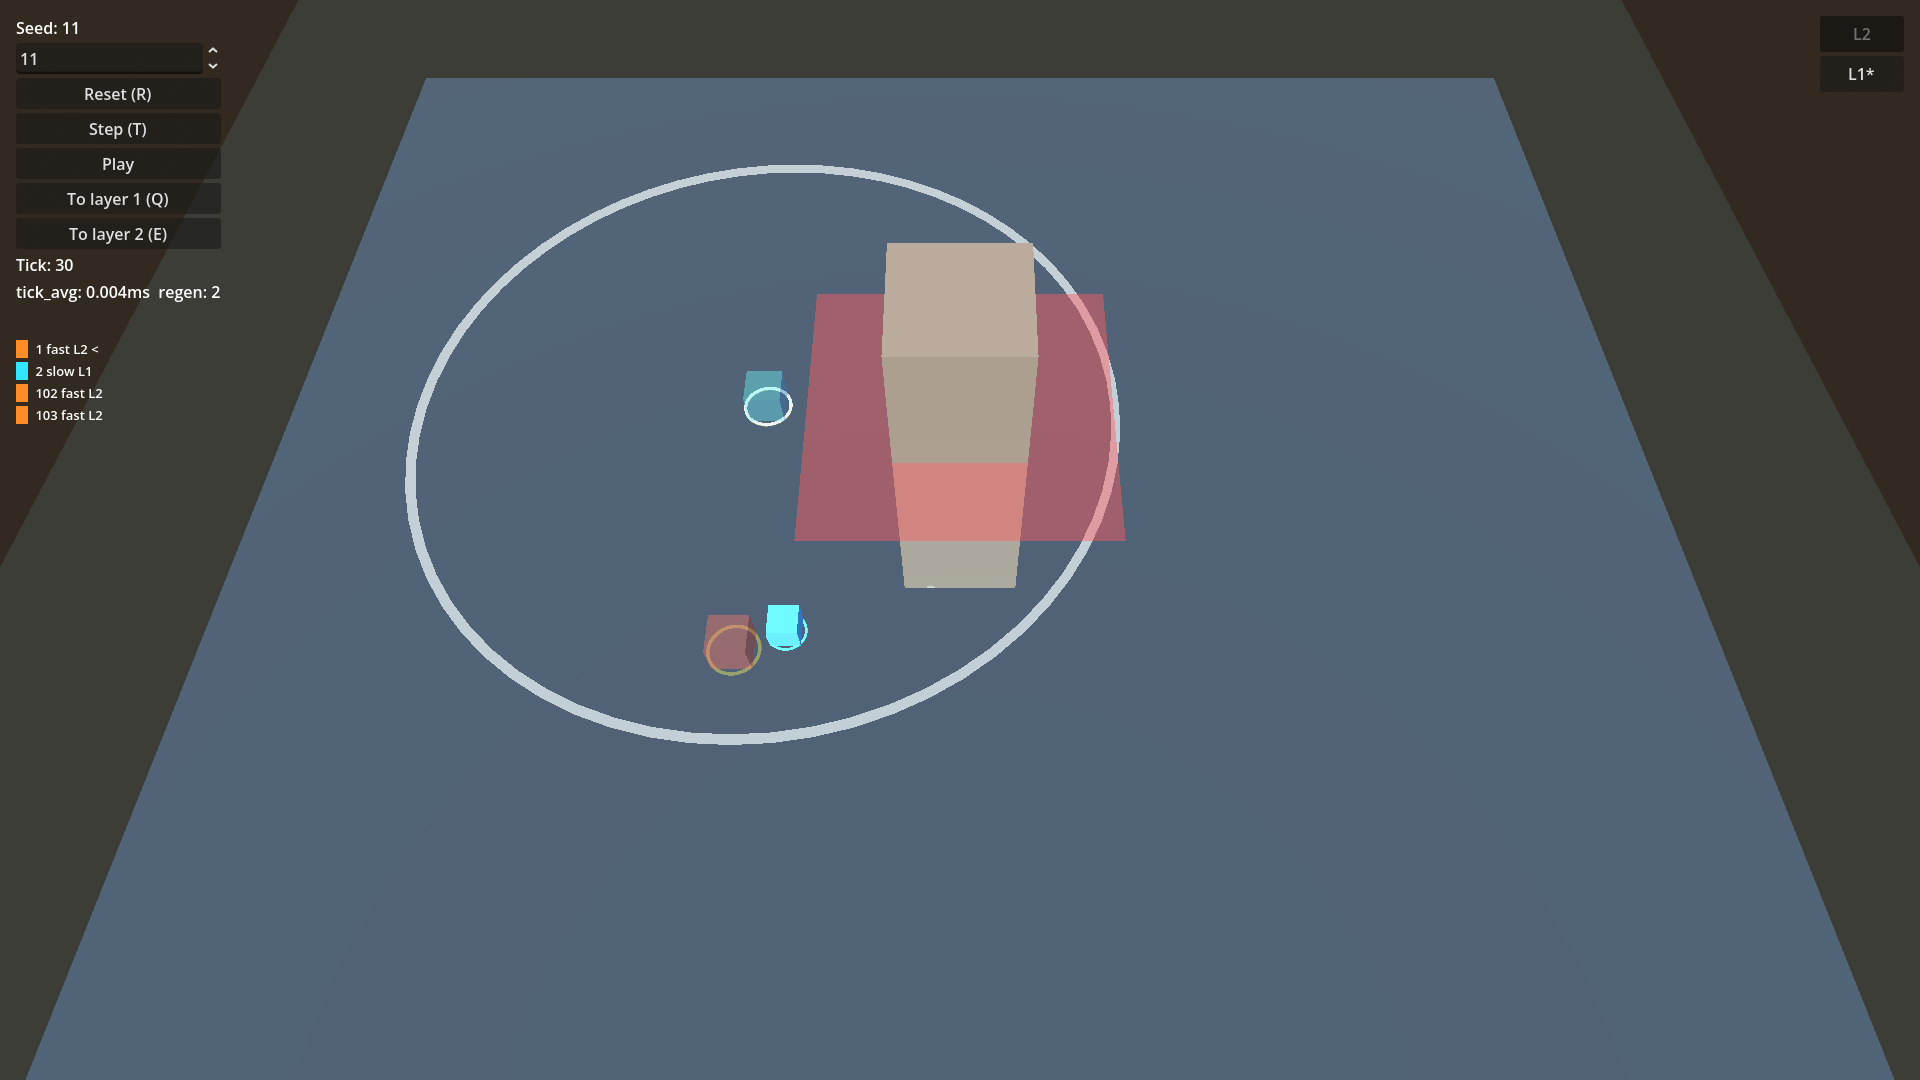
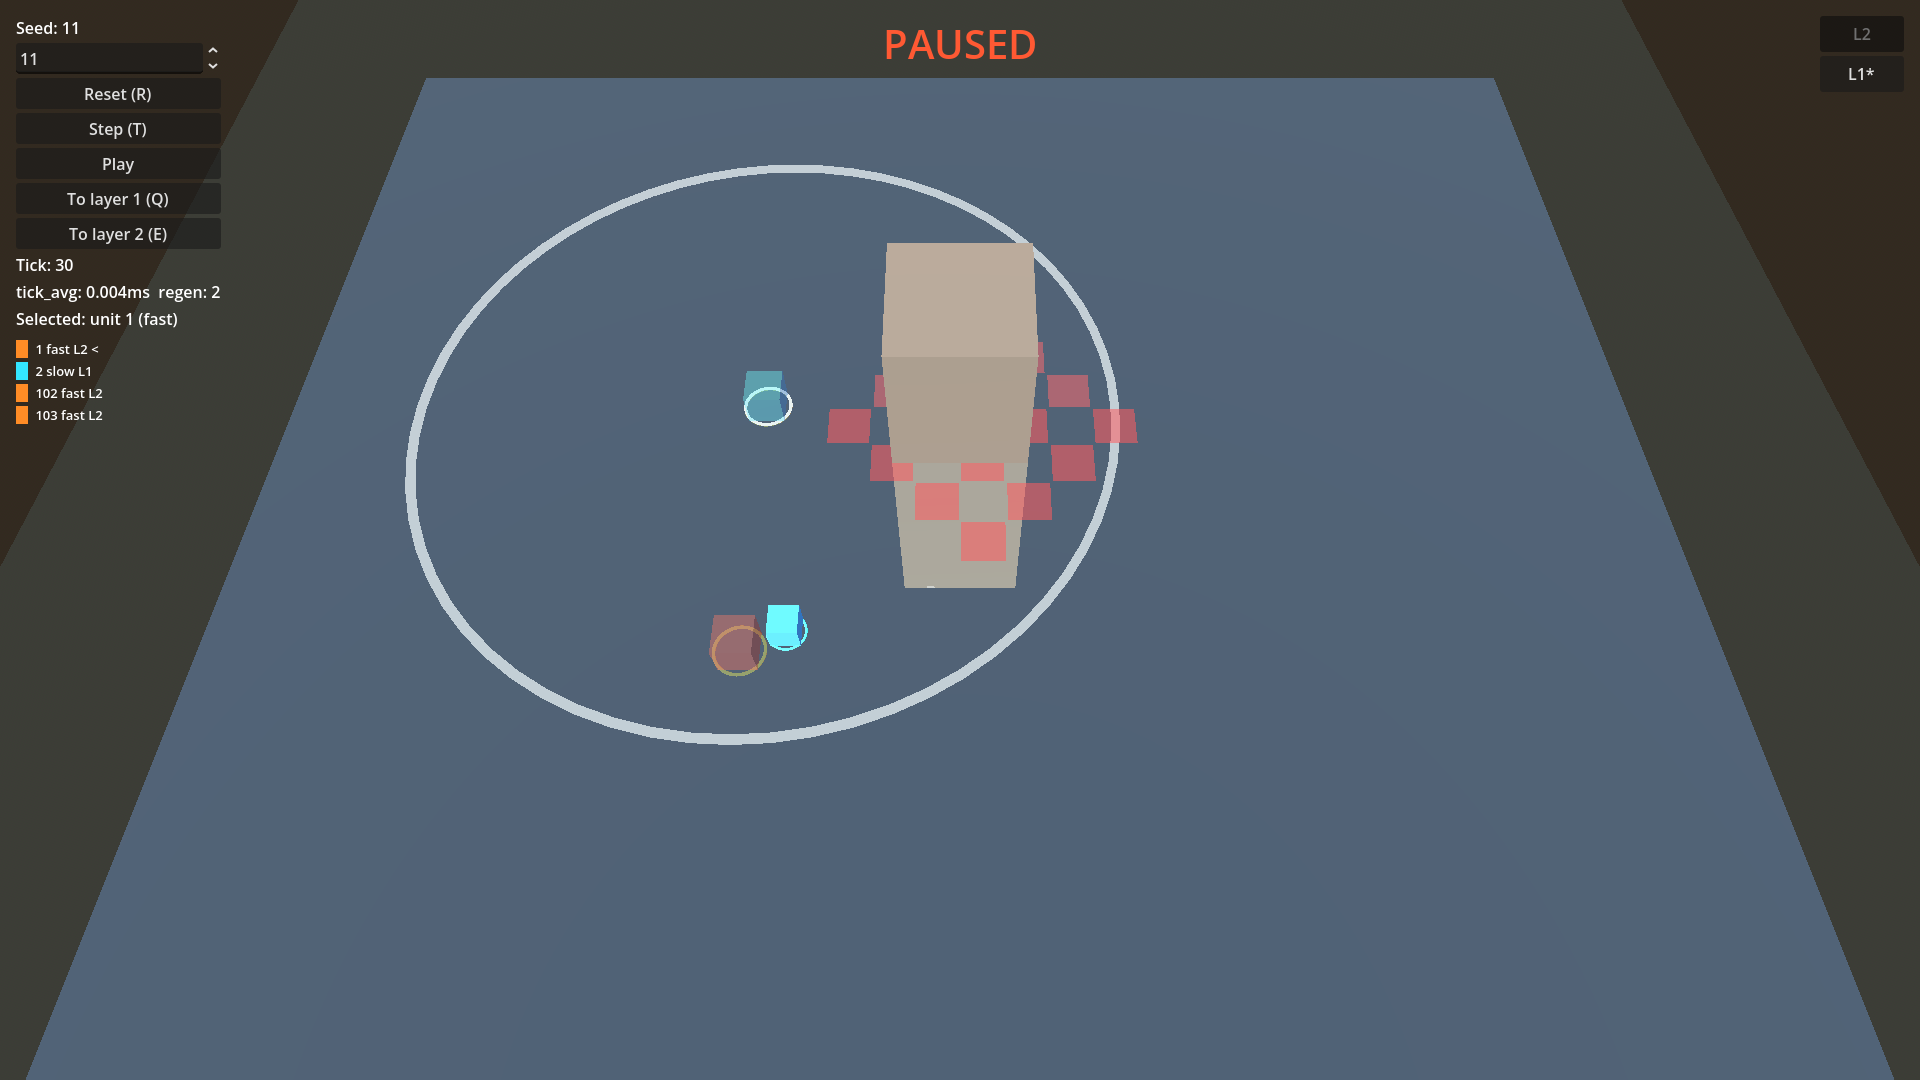
docs(layers-mockup): review-1 fixes writeup, pass1 batch re-shot
pass-2 verification writeup: root causes + evidence for all 4 items
(README "Mockup review 1 fixes"), hotkeys line updated (runs on
launch, D replays demo, Q/E fall back to all friendlies), checklist.md
pass-2 summary table. pass1/ re-shot at 1920x1080 post-fix, 5 new
demo-beat screenshots added.

diff --git a/docs/northstar/research/mockups/layers/README.md b/docs/northstar/research/mockups/layers/README.md
@@ -9,12 +9,16 @@ it are meant to start producing that reference material, so every visual judgeme
 is against the epic's prose (the 60-second paragraph, R-010-03) rather than a screenshot
 to match.
 
-Run it yourself: `~/.local/bin/godot --scene scenes/mockups/layers/layers_mockup.tscn`.
-Hotkeys: **Tab** cycles the focused layer, **1**/**2** set it directly, **Q**/**E** hard-
-transfer the selected unit to layer 1/2, **T** steps one tick, **Space** toggles real-time
-play (20Hz), **R** resets (re-seeds with the spinbox's current value). Left click selects
-the nearest friendly under the cursor; right click issues a move order to the selected
-unit. This scene has no autoload dependency and works identically whether launched by
+Run it yourself: `~/.local/bin/godot --scene scenes/mockups/layers/layers_mockup.tscn`. It
+runs on launch (paused only under `--qa-script`) and plays a one-time self-demo of the
+epic's paragraph; see "Mockup review 1 fixes" below.
+Hotkeys: **Tab** cycles the focused layer, **1**/**2** set it directly, **Q**/**E**
+transfer the selected unit to layer 1/2 (or every friendly, if none is selected) — ordering
+a transfer resumes play if paused, **T** steps one tick, **Space** toggles real-time play
+(20Hz), **R** resets (re-seeds with the spinbox's current value; the spinbox also reseeds
+on any value change), **D** replays the self-demo. Left click selects the nearest friendly
+under the cursor; right click issues a move order to the selected unit. This scene has no
+autoload dependency and works identically whether launched by
 `--scene` (autoloads running, as on Westley's seat) or through the QA harness's
 `qa_boot.gd` (no autoloads) — confirmed by code inspection, not a live run on Westley's
 seat: `scenes/mockups/_shared/qa_driver.gd`'s `_ready()` reads `--qa-script` from the
@@ -230,3 +234,64 @@ reviewer's guessed 35% nor a code defect — see `qa/checklist.md`, "Item 5."
 Verbatim: "The layers one doesn't appear to work at all. The buttons do not move the units when I click them, changing the seed doesn't do anything, reset doesn't do anything, step doesn't appear to do anything other than tick forward."
 
 Pass 2 brief: `docs/northstar/plans/briefs/2026-09-22-p6-layers-mockup-pass2.md` (sim starts paused so transfers never progress; click selection and edge scroll compare coordinate spaces that differ on a large screen; the map fixture ignores the seed; a self-running demo of the epic's paragraph on launch).
+
+## Mockup review 1 fixes (2026-09-22, pass 2)
+
+**1. Nothing moved.** `layers_mockup.gd` started with `_playing = false` and only Step/Space
+advanced the sim; ordering a transfer via the HUD buttons started a transition in data but
+nothing ever ticked it forward, so units never visibly moved (proven: a state dump right
+after `qa_transfer` showed `tick: 0`, `transition` non-null, unchanged on every later dump
+without an explicit `T`/Space). Fixed: an interactive launch (`--scene`, no `--qa-script`)
+now runs the sim immediately; a big red "PAUSED" HUD label shows only while stopped;
+ordering a transfer resumes play if paused. QA-scripted launches still boot paused so
+`qa_tick` keeps exact control (`scripts/mockup_verify.sh layers` and the Xvfb battery are
+all unaffected — same hashes, same fail counts on every plant).
+
+**2. The buttons acted on the selection, and nothing was selected by default.**
+Investigating the suspected coordinate-space bug (pick vs. edge-scroll) found the pick
+(a ground raycast off the mouse position, not `unproject_position`) and the edge-scroll fix
+already in the paused wip commit are both correct: at `--res 2560x1440`, all four edges
+pan, hovering the HUD does not, and a click at a unit's true screen pixel selects it
+(`qa/edges.json`, one clean run, `exit 0`). The actual bug: `transfer_selected()` silently
+did nothing when nothing was selected, and nothing is selected at boot — pressing "To layer
+2" straight after launch (exactly what Westley did) was a no-op. Fixed: with no selection,
+Q/E and the transfer buttons apply to every friendly, and the HUD says so ("Selected: none
+— Q/E apply to every friendly", or "Selected: unit N (type)" once one is picked).
+
+**3. Seed and Reset did nothing visible.** The blocked region was one static radius check
+(`is_blocked`) and enemies got zero position jitter — nothing about the map depended on the
+seed. Fixed: `toy_sim.gd` now builds a per-cell blocked mask at `generate()` time (the
+obstacle's own cell always blocked, every other candidate cell blocked by a
+`(cx + cz + seed) % 2` parity check), enemies get the same jitter friendlies already had,
+and `layer_view.gd` renders one small red quad per actually-blocked cell instead of one big
+static square, so the pattern itself is visible. Measured (headless): seed 11 vs. seed 12,
+17 vs. 21 blocked cells, 36 of 37 candidate cells (97%) differ; every one of the 5 units'
+positions differs. Pixel oracle (`qa/seed_oracle.json`, zoomed to `qa_camera 900 2000
+2000`): `before_seed11.png` vs. `before_seed12.png` diff **0.329** clean (bar: ≥ 0.05),
+**0.0001** under the new `seed-ignored` plant (bar: < 0.01; the plant collapses every
+requested seed to 11 in `ToySim.generate()`, a positive control proving the oracle would
+actually catch a regression). The spinbox now also reseeds on `value_changed`, not just on
+Reset/R. Reset itself was already fully correct (`generate()` already re-seeds tick to 0
+and every unit to its fixture position) — it only *looked* like a no-op because nothing had
+visibly changed yet, for the same reason as item 1.
+
+**4. Self-demo.** `fixtures/demo.json` is a flat, timed list of `qa_*` calls and narration
+strings (data, not code branches); `layers_mockup.gd` runs it once on every interactive
+launch and on **D**. Confirmed end to end under real wall-clock frames (not `qa_tick`): by
+200 real frames the fast unit has risen to layer 2; by 600 frames it is back on layer 1,
+`pending: true`, parked at `(2000, 2300)` — the blocked-and-waiting beat — narrating "fast
+unit walked onto the blocked patch, waiting" through the HUD's new bottom-of-screen demo
+label. `qa/demo.json` drives the same five beats deterministically through `qa_tick`
+instead, for the screenshot batch (`pass1/demo_beat1_rising.png` through
+`demo_beat5_cleared.png`) — those five frames show the "PAUSED" label because the QA
+harness ticks explicitly rather than running the sim clock (same reason the existing
+`smoke.json` screenshots always have); the interactive demo genuinely runs unpaused.
+
+Full verification: `scripts/mockup_verify.sh layers` → `VERIFY OK`; all 6 original plants
+`LIVE` with unchanged fail counts; `seed-ignored` is headlessly `DEAD` (by design — its only
+effect is on the seed pixel oracle, not on any of verify.gd's functional assertions) and
+proven `LIVE` by the pixel diff above. `smoke.json` run twice at 1280x720: `exit 0`,
+`errors: count 0`, byte-identical hashes across both runs and against the seed-11 narrative
+(`blocked_attempt`/`blocked_cleared` unaffected). All 7 plants run once each through
+`smoke.json` under Xvfb: `exit 0`, `errors: count 0`. The 1920x1080 review batch in
+`pass1/` is re-shot post-fix (8 original screenshots + the 5 new demo beats).

diff --git a/scenes/mockups/layers/qa/checklist.md b/scenes/mockups/layers/qa/checklist.md
@@ -237,3 +237,27 @@ expected result of the instructed fix, recorded above rather than guessed at.
 - Wall time, one full clean run (`smoke.json`, 8 screenshots + 9 state dumps, 720p):
   **6 seconds** (`date` bracketing `clean1`: 13:21:56 → 13:22:02).
 - Wall time, 1920x1080 review batch: **11 seconds** (13:27:24 → 13:27:35).
+
+## Pass 2 (2026-09-22): review-1 fixes
+
+Full root-cause writeup and evidence: `docs/northstar/research/mockups/layers/README.md`,
+"Mockup review 1 fixes". Summary of what changed and what was re-run:
+
+| check | result |
+|---|---|
+| `scripts/mockup_verify.sh layers` | `VERIFY OK` |
+| all 6 original plants | `LIVE`, same fail counts as pass 1 |
+| new `seed-ignored` plant | headlessly `DEAD` (no functional assertion touches it by design); `LIVE` via the pixel oracle below |
+| `smoke.json` x2, 1280x720 | `exit 0`, `errors: count 0`, byte-identical hashes both runs |
+| `smoke.json`, all 7 plants once each, 1280x720 | `exit 0`, `errors: count 0` every plant |
+| `qa/edges.json`, 2560x1440 | `exit 0`; left/right/top/bottom edges pan the camera by ~1240wu each; HUD hover produces zero pan; click at a unit's true screen pixel selects it |
+| `qa/seed_oracle.json`, `qa_camera 900 2000 2000`, 1280x720 | clean `before_seed11` vs `before_seed12` diff **0.329** (≥ 0.05 bar); under `--plant seed-ignored`, diff **0.0001** (< 0.01 bar) |
+| `qa/demo.json`, 1920x1080 | `exit 0`, `errors: count 0`, 5 screenshots (`demo_beat1_rising` … `demo_beat5_cleared`), states confirm the fast unit rises, both units end up on layer 2 with `visible_enemy_uids: [102, 103]` mid-demo, then the blocked/waiting/cleared sequence at ticks 250/370 |
+| interactive self-demo under real wall-clock frames | at 200 frames unit 1 already on layer 2; at 600 frames back on layer 1, `pending: true`, parked at `(2000, 2300)` — the blocked beat, reached without any `qa_tick` call |
+| pass1/ review batch | re-shot at 1920x1080 (8 original screenshots + 5 new demo beats) |
+
+Blocked-cell membership is now seeded (per-cell parity, obstacle's own cell always
+blocked) instead of one static circle; `layer_view.gd` draws one quad per actually-blocked
+cell so the pattern is visible, not just the candidate radius. Enemies get the same
+position jitter friendlies already had. `qa_state()` gained `selected_uid`, `camera`,
+`canvas_px` (from the paused wip commit) and `playing`, `demo_narration` (this pass).
